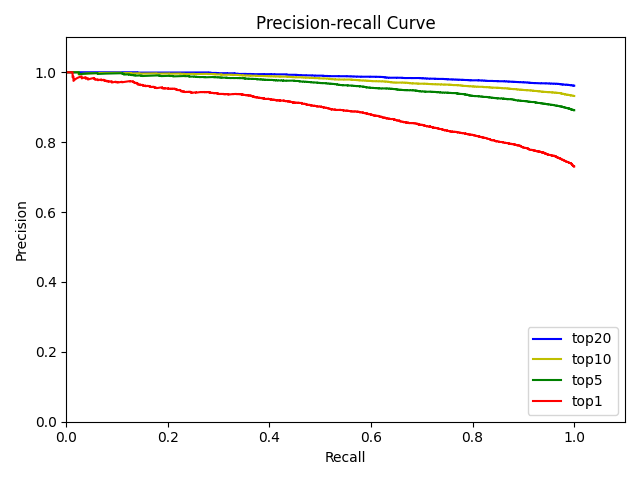
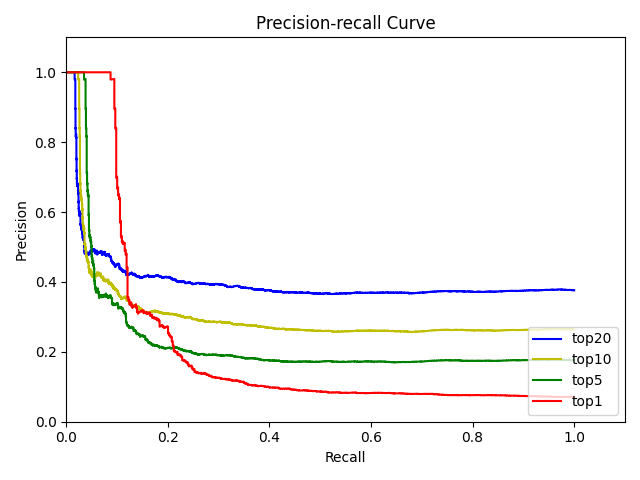
add resnet backbone

diff --git a/main.py b/main.py
@@ -69,7 +69,7 @@ parser.add_argument('--patience', type=int, default=10, help='Patience for early
 parser.add_argument('--dataset', type=str, default='pittsburgh', 
         help='Dataset to use', choices=['pittsburgh'])
 parser.add_argument('--arch', type=str, default='vgg16', 
-        help='basenetwork to use', choices=['vgg16', 'alexnet'])
+        help='basenetwork to use', choices=['vgg16', 'alexnet', 'resnet', 'resnet_full'])
 parser.add_argument('--vladv2', action='store_true', help='Use VLAD v2')
 parser.add_argument('--pooling', type=str, default='netvlad', help='type of pooling to use',
         choices=['netvlad', 'max', 'avg'])
@@ -152,13 +152,6 @@ def get_precision_recall_curve(qFeat, dbFeat, predictions1, predictions5, predic
         y_predicted.append(y_p)
     precision10, recall10, thresholds = precision_recall_curve(y_true, y_predicted)
 
-
-
-    # precision, recall, thresholds = precision_recall_curve(y_true, y_predicted)
-    # precision1, recall1, thresholds = precision_recall_curve(y_true, y_predicted)
-    # precision5, recall5, thresholds = precision_recall_curve(y_true, y_predicted)
-    # precision10, recall10, thresholds = precision_recall_curve(y_true, y_predicted)
-
     # Plot Precision-recall curve
     plt.figure()
     plt.plot(recall, precision, 'b', label='top20')
@@ -237,6 +230,7 @@ def train(epoch):
 
             input = input.to(device)
             image_encoding = model.encoder(input)
+            # print("encoder_dim: ", image_encoding.shape)
             vlad_encoding = model.pool(image_encoding) 
 
             vladQ, vladP, vladN = torch.split(vlad_encoding, [B, B, nNeg])
@@ -300,7 +294,7 @@ def test(eval_set, epoch=0, write_tboard=False):
             input = input.to(device)
             image_encoding = model.encoder(input)
             # print("model.encoder: ", model.encoder)
-            # print("image_encoding.shape: ", image_encoding.shape) (24, 512, 2, 2)
+            # print("image_encoding.shape: ", image_encoding.shape) # (24, 512, 2, 2)
             vlad_encoding = model.pool(image_encoding) 
 
             dbFeat[indices.detach().numpy(), :] = vlad_encoding.detach().cpu().numpy()
@@ -349,13 +343,16 @@ def test(eval_set, epoch=0, write_tboard=False):
     return recalls
 
 def get_clusters(cluster_set):
-    nDescriptors = 50000 #nexttime
+    # nDescriptors = 50000 #nexttime
     #/25 = 2000
-    # nDescriptors = 6000 # total descriptors
-    # 50000 * 3/25
-    nPerImage = 100 #nexttime
-    # 4
+    # nDescriptors = 2000 (40, 40)
+    # nDescriptors = 6000 # total descriptors # 50000 * 3/25
+
+    nDescriptors = 500 # 50000/100 (40, 40) alexnet
+    # nPerImage = 100 #nexttime
+    # nPerImage = 4
     # nPerImage = 12 # down sample to (48, 64) # number of descriptors per image
+    nPerImage = 1 # (40, 40) alexnet
     nIm = ceil(nDescriptors/nPerImage) # take 500 images
 
     sampler = SubsetRandomSampler(np.random.choice(len(cluster_set), nIm, replace=False))
@@ -522,6 +519,8 @@ if __name__ == "__main__":
     elif opt.arch.lower() == 'vgg16':
         encoder_dim = 512
         encoder = models.vgg16(pretrained=pretrained)
+        # print("vgg16: ", encoder)
+
         # capture only feature part and remove last relu and maxpool
         layers = list(encoder.features.children())[:-2]
 
@@ -530,6 +529,40 @@ if __name__ == "__main__":
             for l in layers[:-5]: 
                 for p in l.parameters():
                     p.requires_grad = False
+
+    elif opt.arch.lower() == 'resnet':
+        encoder_dim = 512
+        encoder = models.resnet50(pretrained=pretrained)
+        # print("resnet_encoder: ", encoder)
+        # print("resnet_encoder.keys(): ", encoder.keys())
+        # capture only feature part and remove last relu and maxpool
+        layers = [encoder.conv1, encoder.bn1, encoder.relu, encoder.maxpool] + list(encoder.layer1) + list(encoder.layer2)
+        # print("layers = ", layers)
+
+        if pretrained:
+            # if using pretrained then only train conv5_1, conv5_2, and conv5_3
+            for l in layers[:-5]: 
+                for p in l.parameters():
+                    p.requires_grad = False
+
+    elif opt.arch.lower() == 'resnet_full':
+        encoder_dim = 512
+        encoder = models.resnet50(pretrained=pretrained)
+        # print("resnet_encoder: ", encoder)
+        # print("resnet_encoder.keys(): ", encoder.keys())ß
+        # capture only feature part and remove last relu and maxpool
+        conv_1_1 = nn.Conv2d(512 * 4, 512, (1, 1))
+        # layers = [encoder.conv1, encoder.bn1, encoder.relu, encoder.maxpool] + list(encoder.layer1) + list(encoder.layer2)
+        layers = [encoder.conv1, encoder.bn1, encoder.relu, encoder.maxpool] + list(encoder.layer1) + list(encoder.layer2) + list(encoder.layer3) + list(encoder.layer4) + [conv_1_1]
+
+        # print("layers = ", layers)
+
+        if pretrained:
+            # if using pretrained then only train conv5_1, conv5_2, and conv5_3
+            for l in layers[:-5]: 
+                for p in l.parameters():
+                    p.requires_grad = False
+
 
     if opt.mode.lower() == 'cluster' and not opt.vladv2:
         layers.append(L2Norm())
@@ -599,12 +632,12 @@ if __name__ == "__main__":
             resume_ckpt = join(opt.resume, 'checkpoints', 'checkpoint.pth.tar')
         elif opt.ckpt.lower() == 'best':
             resume_ckpt = join(opt.resume, 'checkpoints', 'model_best.pth.tar')
-
+        print("resume checkpt: ", resume_ckpt)
         if isfile(resume_ckpt):
             print("=> loading checkpoint '{}'".format(resume_ckpt))
             checkpoint = torch.load(resume_ckpt, map_location=lambda storage, loc: storage)
-            opt.start_epoch = checkpoint['epoch']
-            best_metric = checkpoint['best_score']
+            # opt.start_epoch = checkpoint['epoch']
+            # best_metric = checkpoint['best_score']
             model.load_state_dict(checkpoint['state_dict'])
             model = model.to(device)
             if opt.mode == 'train':

diff --git a/pittsburgh.py b/pittsburgh.py
@@ -123,15 +123,18 @@ class WholeDatasetFromStruct(data.Dataset):
             img = self.input_transform(img) # (3, 480, 640)
         # img.thumbnail(40, 40, resample=Image.Resampling.BILINEAR)
         # print("imag.shape: ", img.shape)
-        img = img.unsqueeze(0)
-        # img = F.interpolate(img, size = [48, 64], mode = 'bilinear')
-        img = F.interpolate(img, size = [160, 160], mode = 'bilinear')
-        img = img.squeeze(0)
+        img = img.unsqueeze(0)    # add a dimention at first, because without batch dimention (needed by interpolate)
+        # The input dimensions are interpreted in the form: mini-batch x channels x [optional depth] x [optional height] x width.
+        # img = F.interpolate(img, size = [40, 40], mode = 'bilinear')
+        img = F.interpolate(img, size = [48, 64], mode = 'bilinear')
+        # img = F.interpolate(img, size = [160, 160], mode = 'bilinear')
+        img = img.squeeze(0)      # remove first dimention
         # print("after_imag.shape: ", img.shape)
         
         return img, index
 
     def __len__(self):
+        # print("img_number: ", len(self.images))
         return len(self.images)
 
     def getPositives(self):

diff --git a/checkpoint/check.py b/checkpoint/check.py
@@ -12,7 +12,7 @@ import matplotlib.pyplot as plt
 
 
 
-best_checkpoint = torch.load('/media/sdc1/wendyu/baseline/pytorch-NetVlad/Mar24_13-36-22_vgg16_netvlad/checkpoints/model_best.pth.tar')
+best_checkpoint = torch.load('/media/sdc1/wendyu/baseline/pytorch-NetVlad/Apr21_00-35-12_resnet_full_netvlad/checkpoints/checkpoint.pth.tar')
 # model_best = torch.load('model_best.pth.tar')
 # for key in checkpoint['recalls']:
 #     # print("checkpoint's recalss = ", checkpoint['recalls'])
@@ -30,7 +30,7 @@ print("model_best's recalls = ", best_checkpoint['recalls'])
 
 
 
-checkpoint = torch.load('/media/sdc1/wendyu/baseline/pytorch-NetVlad/Mar24_13-36-22_vgg16_netvlad/checkpoints/checkpoint.pth.tar')
+checkpoint = torch.load('/media/sdc1/wendyu/baseline/pytorch-NetVlad/Apr21_00-35-12_resnet_full_netvlad/checkpoints/checkpoint.pth.tar')
 print("checkpoint's epoch = ", checkpoint['epoch'])
 print("checkpoint's recall_history = ", checkpoint['recall_history'])
 
